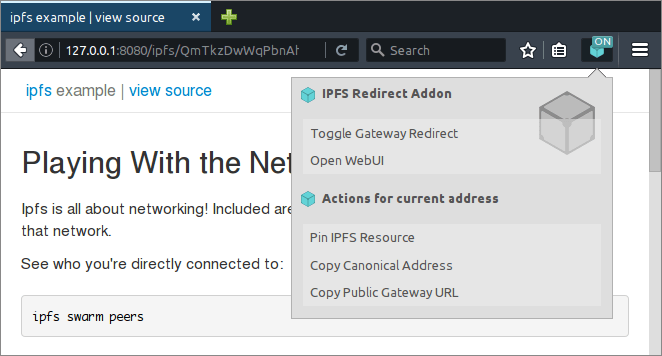
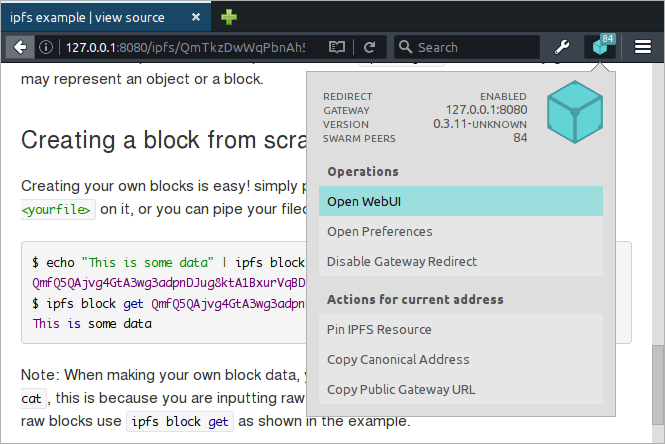
README & screenshot with 1.5.0 features

diff --git a/README.md b/README.md
@@ -9,26 +9,30 @@ Firefox addon that provides transparent access to IPFS resources via local HTTP2
 
 (If you are using Google Chrome or Chromium check [ipfs-chrome-extension](https://github.com/dylanPowers/ipfs-chrome-extension) or [ipfs-chrome-station](https://github.com/xicombd/ipfs-chrome-station) instead)
 
-![screenshot of v1.4.0](screenshot.png)
+![screenshot of v1.5.0](screenshot.png)
 
 ### Features
 
-- Clicking on the addon icon displays menu with useful operations
-  - Toggle redirection to custom gateway (ON by default)
+- Toolbar icon displays current IPFS peering status
+- Click on it to open IPFS actions menu
+  - Display information about custom gateway
+  - Toggle redirection to the gateway (ON by default)
   - Open WebUI (eg. go-ipfs daemon running at the custom gateway)
   - Additionally, on pages loaded from IPFS:
-    - Pin IPFS Resource (via go-ipfs API)
+    - Pin IPFS Resource (via API)
     - Copy canonical IPFS address
     - Copy shareable URL to resource at a default public gateway (first one on public gateway list)
 - Requests to `https?://<public_gateway>/(ipfs|ipns)/$RESOURCE`  
   are replaced with `http://127.0.0.1:8080/(ipfs|ipns)/$RESOURCE`
-- Custom Gateway's host and ports can be changed at   
+- Custom Gateway address and other settings can be tweaked at   
   `about:addons` → Extensions → IPFS Gateway Redirect → Preferences
-- List of public gateways can be customized too,  
-  default is `ipfs.io` with second being the legacy `gateway.ipfs.io`
 - Requests made via popular custom protocols are routed to the active gateway (public or custom):
    - `[web+](ipfs|ipns):/*$RESOURCE`
    - `[web+]fs:/*(ipfs|ipns)/$RESOURCE`
+- Experimental features (disabled by default, use Preferences screen to enable)
+   - Automatic Mode: enable/disable redirect based on the number of peers
+   - Detect and redirect sites with [dnslink](https://github.com/jbenet/go-dnslink) to `/ipns/<fqdn>`
+   - Rewrite hrefs with `/ip(f|n)s/*` paths on every page to point to IPFS gateway. Make plaintext IPFS links clickable.
 
 ### How to install
 
